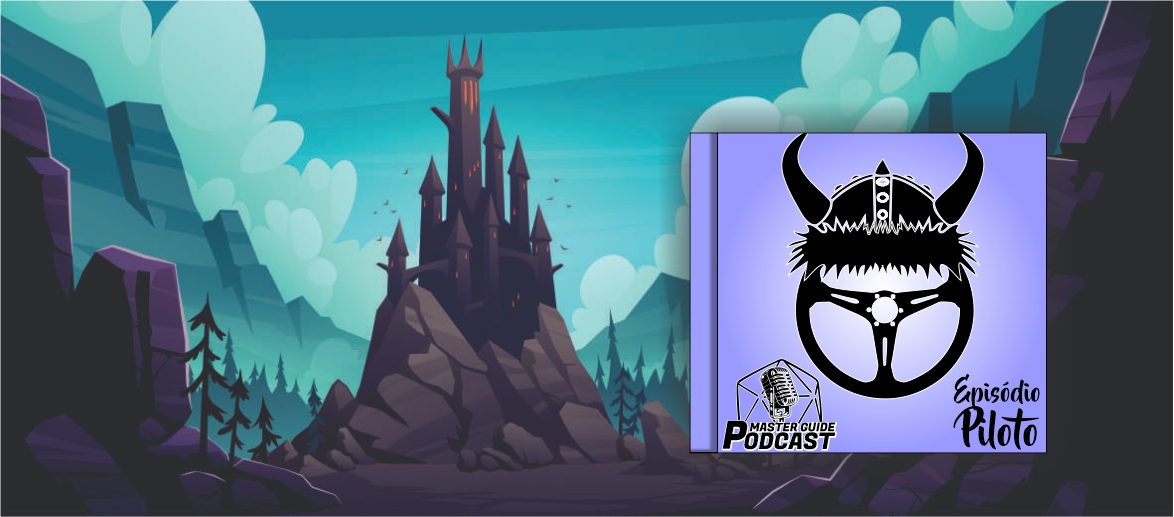
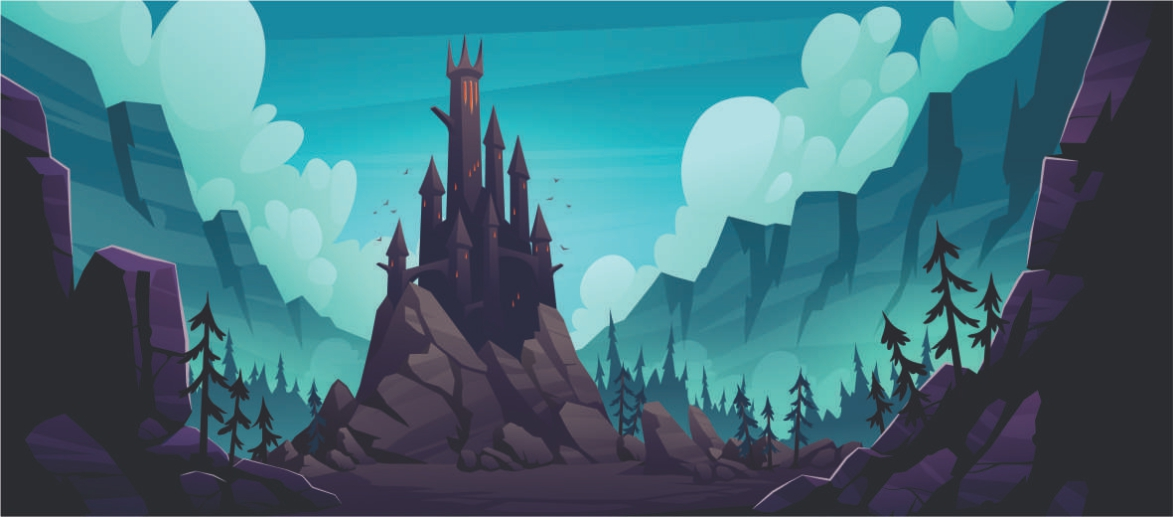
Commit CD2

Changed region(s): [[0.552, 0.1857, 0.9199, 0.8975]]

diff --git a/index.html b/index.html
@@ -30,11 +30,17 @@
   </div>
 <div class="carousel-inner">
    <div class="carousel-item active">
-     <img src="imagens/01.jpg" class="d-block w-100" alt="...">
+     <img src="imagens/01.jpg" class="d-block w-100" alt="Slide 1">
+ 
      <div class="carousel-caption d-none d-md-block">
-       <h5 class="slide1">First slide label</h5>
-       <p class="texto1">Some representative placeholder content for the first slide.</p>
-     </div>
+      
+      <div class="cd-item">
+        <img src="imagens/ep_piloto_cd.png"  alt="SHR Informática" id="cdslide">
+      </div>
+      
+      <h5 class="slide1">Master Guide Podcast</h5>
+      <p class="texto1">Episódio Piloto do podcast</p>
+      </div>
    </div>
     <div class="carousel-item">
       <img src="imagens/02.jpg" class="d-block w-100" alt="...">

diff --git a/css/style.css b/css/style.css
@@ -45,6 +45,18 @@
     opacity: 1;
   }
 }
+
+.cd-item img {opacity: 1;}
+@keyframes efeito_di{
+  0%{
+    transform: translateX(3300px);
+  }
+  100%{
+    transform: translateX(0);
+    opacity: 1;
+  }
+}
+
 .slide1, .slide2, .slide3{
   animation: efeito 0.6s 0.7s forwards;  
   opacity: 0;
@@ -67,4 +79,9 @@
   font-weight: lighter;
   margin-top: 1rem;
   margin-right: 0.5rem;
+}
+
+.cd-item {
+  
+  animation: efeito_di 0.6s 1.5s forwards;  
 }
